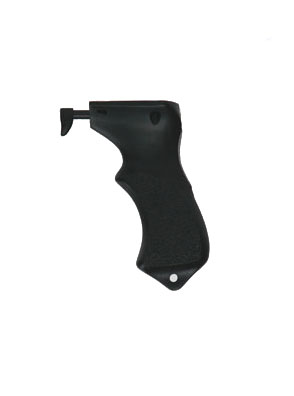
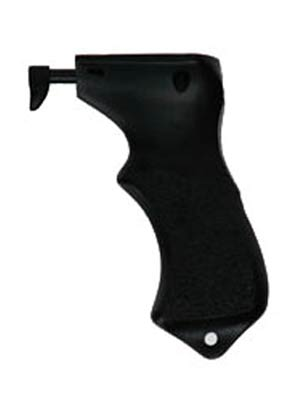
turned accessories pngs into jpgs

Changed region(s): [[0.0918, 0.1212, 0.9184, 0.9091]]

diff --git a/_includes/photos_pistol.html b/_includes/photos_pistol.html
@@ -3,48 +3,48 @@
   <div class="slideshow-slide-list">
 
     <div class="slideshow-slide">
-      <img src="{{site.baseurl}}/assets/p/accessories/pistols/{{page.photos_dir}}/01.jpg" alt="{{ page.name }}">
+      <img src="{{site.baseurl}}/assets/p/accessories/pistols/{{page.name}}/01.jpg" alt="{{ page.name }}">
     </div>
 
     {% if page.number_of_photos >= 2 %}
     <div class="slideshow-slide">
-      <img src="{{site.baseurl}}/assets/p/accessories/pistols/{{page.photos_dir}}/02.jpg" alt="{{ page.name }}">
+      <img src="{{site.baseurl}}/assets/p/accessories/pistols/{{page.name}}/02.jpg" alt="{{ page.name }}">
     </div>
     {% endif %}
 
     {% if page.number_of_photos >= 3 %}
     <div class="slideshow-slide">
-      <img src="{{site.baseurl}}/assets/p/accessories/pistols/{{page.photos_dir}}/03.jpg" alt="{{ page.name }}">
+      <img src="{{site.baseurl}}/assets/p/accessories/pistols/{{page.name}}/03.jpg" alt="{{ page.name }}">
     </div>
     {% endif %}
 
     {% if page.number_of_photos >= 4 %}
     <div class="slideshow-slide">
-      <img src="{{site.baseurl}}/assets/p/accessories/pistols/{{page.photos_dir}}/04.jpg" alt="{{ page.name }}">
+      <img src="{{site.baseurl}}/assets/p/accessories/pistols/{{page.name}}/04.jpg" alt="{{ page.name }}">
     </div>
     {% endif %}
 
     {% if page.number_of_photos >= 5 %}
     <div class="slideshow-slide">
-      <img src="{{site.baseurl}}/assets/p/accessories/pistols/{{page.photos_dir}}/05.jpg" alt="{{ page.name }}">
+      <img src="{{site.baseurl}}/assets/p/accessories/pistols/{{page.name}}/05.jpg" alt="{{ page.name }}">
     </div>
     {% endif %}
 
     {% if page.number_of_photos >= 6 %}
     <div class="slideshow-slide">
-      <img src="{{site.baseurl}}/assets/p/accessories/pistols/{{page.photos_dir}}/06.jpg" alt="{{ page.name }}">
+      <img src="{{site.baseurl}}/assets/p/accessories/pistols/{{page.name}}/06.jpg" alt="{{ page.name }}">
     </div>
     {% endif %}
 
     {% if page.number_of_photos >= 7 %}
     <div class="slideshow-slide">
-      <img src="{{site.baseurl}}/assets/p/accessories/pistols/{{page.photos_dir}}/07.jpg" alt="{{ page.name }}">
+      <img src="{{site.baseurl}}/assets/p/accessories/pistols/{{page.name}}/07.jpg" alt="{{ page.name }}">
     </div>
     {% endif %}
 
     {% if page.number_of_photos >= 8 %}
     <div class="slideshow-slide">
-      <img src="{{site.baseurl}}/assets/p/accessories/pistols/{{page.photos_dir}}/08.jpg" alt="{{ page.name }}">
+      <img src="{{site.baseurl}}/assets/p/accessories/pistols/{{page.name}}/08.jpg" alt="{{ page.name }}">
     </div>
     {% endif %}
 

diff --git a/_layouts/accessories.html b/_layouts/accessories.html
@@ -19,7 +19,7 @@
 
           <div class="fat_headers_block">
             <h3 class="center">{{ site.slogan }}</h3>
-            <h1 class="center">Pistols, Ports, and Spare Accessories.</h1>
+            <h1 class="center">Pistols, Ports, Grips and Accessories.</h1>
           </div>
 
 
@@ -54,7 +54,7 @@
             {% for port in site.ports %}
               <a class="looper__link port" href="{{ site.baseurl }}/accessories/ports/{{ port.name}}">
                 <div class="product_block">
-                  <img  class="product_thumb" src="{{ site.baseurl }}/assets/p/accessories/ports/{{ port.name | downcase }}/01.png" alt="Liquid Eye Front Ports: {{ port.name }}">
+                  <img  class="product_thumb" src="{{ site.baseurl }}/assets/p/accessories/ports/{{ port.name | downcase }}/01.jpg" alt="Liquid Eye Front Ports: {{ port.name }}">
                   <div class="product_group"><span>Front Port</span></div>
                   <h3>{{ port.name }}</h3>
                 </div>
@@ -66,7 +66,7 @@
             {% for gearsleeve in site.gearsleeves %}
               <a class="looper__link port" href="{{ site.baseurl }}/accessories/gear-sleeves/{{ gearsleeve.name}}">
                 <div class="product_block">
-                  <img class="product_thumb" src="{{ site.baseurl }}/assets/p/accessories/gear-sleeves/{{ gearsleeve.name | downcase }}/01.png" alt="Liquid Eye Gear Sleeve: {{ gearsleeve.name }}">
+                  <img class="product_thumb" src="{{ site.baseurl }}/assets/p/accessories/gear-sleeves/{{ gearsleeve.name | downcase }}/01.jpg" alt="Liquid Eye Gear Sleeve: {{ gearsleeve.name }}">
                   <div class="product_group">
                     <span>Gear Sleeve</span>
                   </div>
@@ -80,7 +80,7 @@
             {% for sparepart in site.spareparts %}
               <a class="looper__link port" href="{{ site.baseurl }}/accessories/spare-parts/{{ sparepart.name}}">
                 <div class="product_block">
-                  <img  class="product_thumb" src="{{ site.baseurl }}/assets/p/accessories/spare-parts/{{ sparepart.name | downcase }}/01.png" alt="Liquid Eye Spare Parts: {{ sparepart.name }}">
+                  <img  class="product_thumb" src="{{ site.baseurl }}/assets/p/accessories/spare-parts/{{ sparepart.name | downcase }}/01.jpg" alt="Liquid Eye Spare Parts: {{ sparepart.name }}">
                   <div class="product_group"><span>Spare Part</span></div>
                   <h3>{{ sparepart.display_name }}</h3>
                 </div>

diff --git a/_layouts/port.html b/_layouts/port.html
@@ -26,7 +26,7 @@
 
             <div class="product_photos">
 
-              <img src="{{site.baseurl}}/assets/p/accessories/ports/{{page.name}}/01.png" alt="Liquid Eye {{ page.name | upcase }} port">
+              <img src="{{site.baseurl}}/assets/p/accessories/ports/{{page.name}}/01.jpg" alt="Liquid Eye {{ page.name | upcase }} port">
             </div>
 
             <div class="product_intro">

diff --git a/_pistols/pg3.md b/_pistols/pg3.md
@@ -2,6 +2,8 @@
 layout: pistol
 name: pg3
 accessory_group: pistols
+price: ...
+number_of_photos: 4
 features:
   feature1: Designed to fit all our E-models and Pro-models.
   feature2: Extra soft and efficient 3M band grip.
@@ -23,6 +25,8 @@ included:
   item2: 4 large marine stainless screws (+ 2 extra when ordered with a pro-model)
   item3: 1 year limited warranty
 ---
-Liquid Eye has released an improved pistol system for their splash camera housings. A new two-stage trigger 100% sand safe has been incorporated that allows for both focusing and firing using one button. The initial AF portion of the trigger stroke has been lengthened relative the shutter release portion of the trigger stroke to give you greater AF control while swimming, and this helps you avoid accidental miss-fires when your attention is on getting in position or while you are going through the spin cycle if you get caught inside.
+Liquid Eye has released an improved pistol system for their splash camera housings. A new two-stage trigger 100% sand safe has been incorporated that allows for both focusing and firing using one button.
+
+The initial AF portion of the trigger stroke has been lengthened relative the shutter release portion of the trigger stroke to give you greater AF control while swimming, and this helps you avoid accidental mis-fires when your attention is on getting in position or while you are going through the spin cycle if you get caught inside.
 
 Additionally, the pistol grip has been redesigned to be lighter and more ergonomic in your hand, with new side 3M rubber band for a better and softer grip.

diff --git a/_includes/editables/faq-text.md b/_includes/editables/faq-text.md
@@ -95,7 +95,7 @@ The PG4 pistol grip has a single stage trigger. This trigger is intended for pre
 
 The PG3 pistol grip has a dual stage trigger that mimics perfectly the two stages of the shutter button on your DLSR. The initial stage of the trigger stroke activates the AF and the final stage of the trigger stroke activates the shutter.
 
-The initial AF portion of the trigger stroke has been lengthened relative the shutter release portion of the trigger stroke to give you greater AF control while swimming, and to avoid accidental miss-fires.
+The initial AF portion of the trigger stroke has been lengthened relative the shutter release portion of the trigger stroke to give you greater AF control while swimming, and to avoid accidental mis-fires.
 
 ### **What basic controls do your video water-housings have?**
 

diff --git a/_pistols/pgs1.md b/_pistols/pgs1.md
@@ -3,8 +3,7 @@ layout: pistol
 name: pgs1
 accessory_group: pistols
 price: 150
-number_of_photos: 4
-photos_dir: pgs1
+number_of_photos: 3
 features:
   feature1: Dual Stage AF Pistol Grip allows for both focusing and firing using one button.
   feature2: Constructed using Liquid Eye’s proprietary hight strength and ultra weight epoxy resin sandwiched core technology.

diff --git a/_pistols/pg5.md b/_pistols/pg5.md
@@ -2,8 +2,8 @@
 layout: pistol
 name: pg5
 accessory_group: pistols
+price: ...
 number_of_photos: 4
-photos_dir: pg5
 features:
   feature1: Designed to fit all our E-models and Pro-models
   feature2: Constructed using Liquid Eye’s proprietary hight strength and ultra weight epoxy resin sandwiched core technology

diff --git a/_pistols/pg4.md b/_pistols/pg4.md
@@ -2,6 +2,8 @@
 layout: pistol
 name: pg4
 accessory_group: pistols
+price: ...
+number_of_photos: 2
 features:
   feature1: Designed to fit all our E-models and Pro-models
   feature2: Constructed using Liquid Eye’s proprietary hight strength and ultra weight epoxy resin sandwiched core technology
